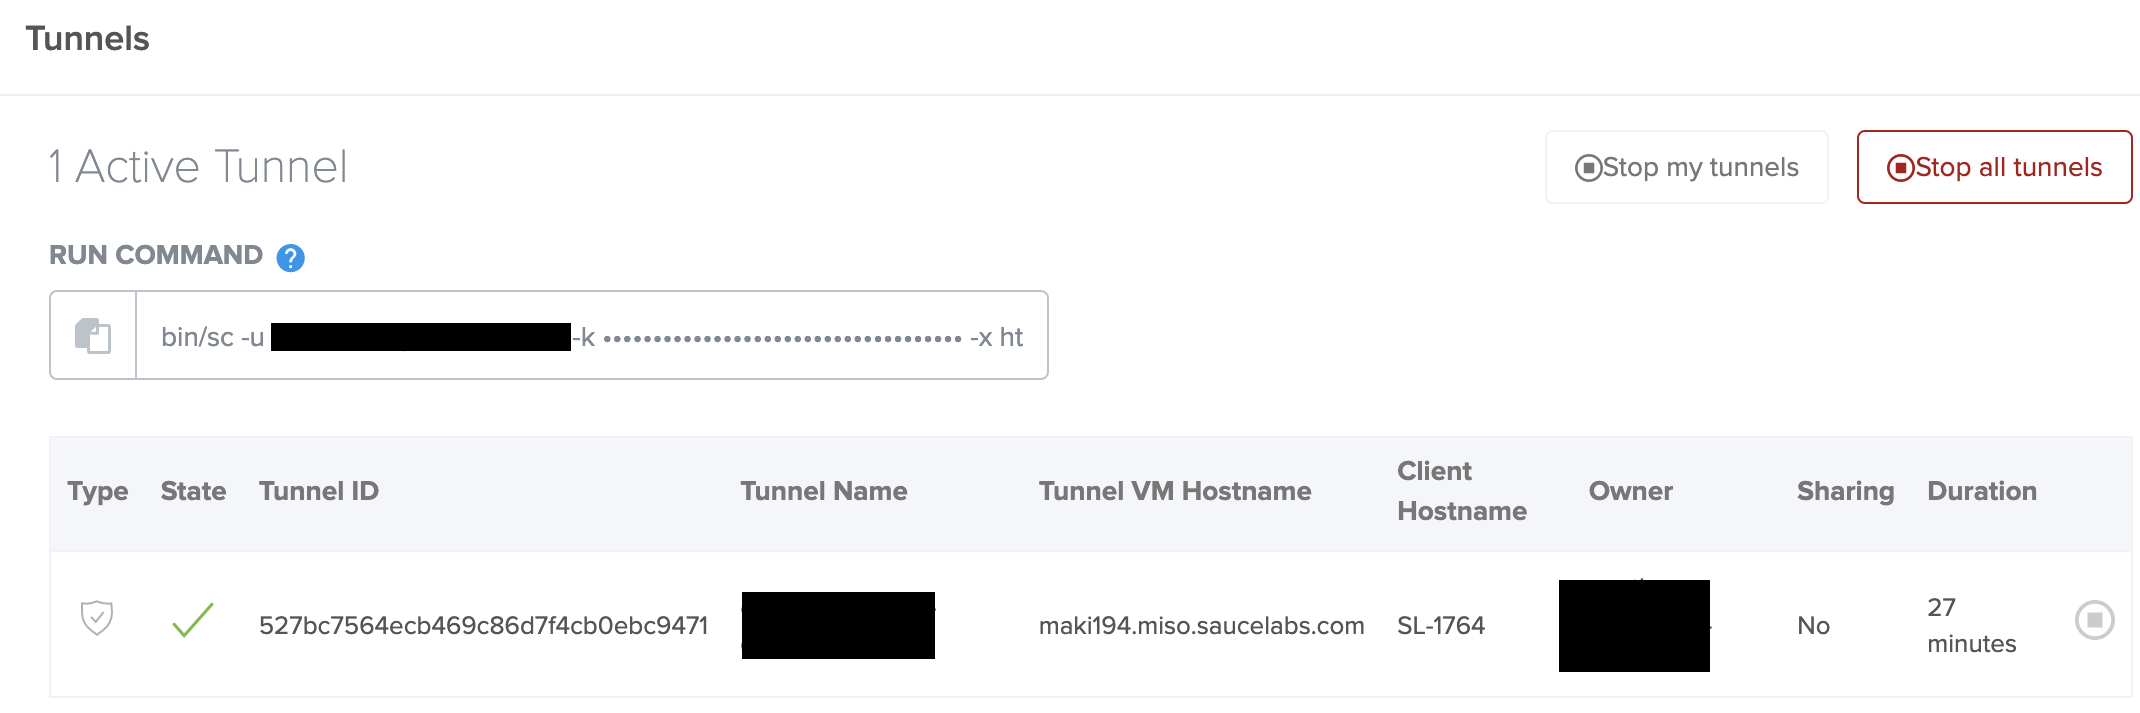
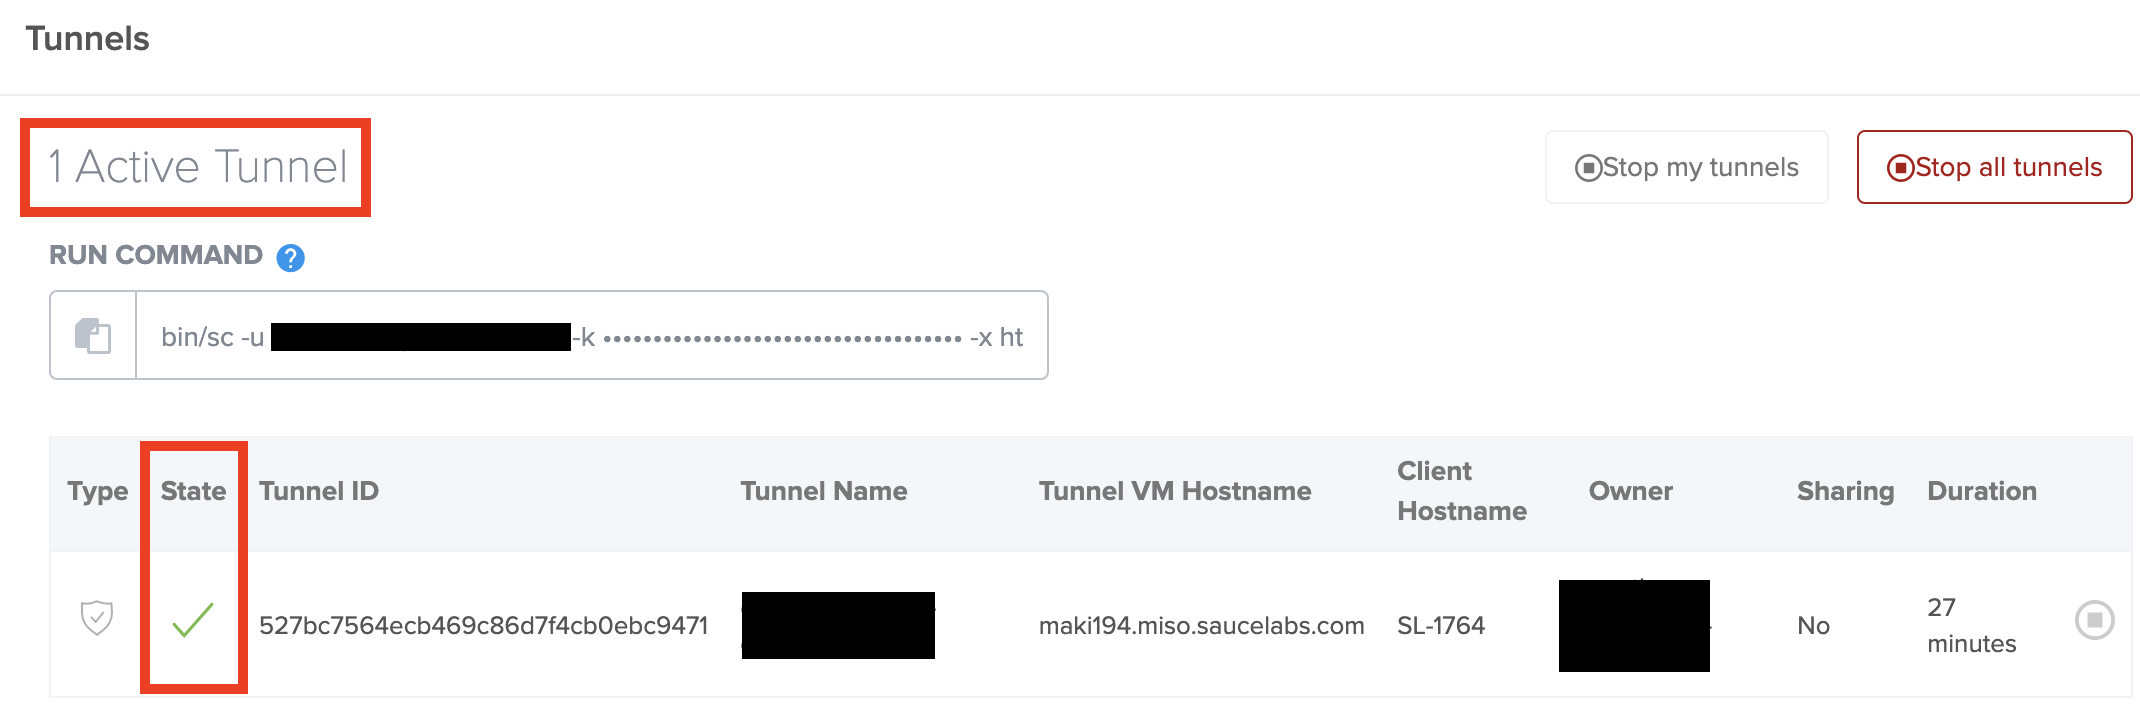
Added Verification and Stop instructions

Changed region(s): [[0.0617, 0.6171, 0.1234, 0.9874], [0.0, 0.1543, 0.185, 0.3086]]

diff --git a/docs/secure-connections/sauce-connect/quickstart.md b/docs/secure-connections/sauce-connect/quickstart.md
@@ -1,36 +1,41 @@
 ---
 id: quickstart
-title: Sauce Connect Proxy Quickstart
+title: Sauce Connect Proxy Quickstart Guide
 sidebar_label: Quickstart
-hide_table_of_contents: true
 ---
 import useBaseUrl from '@docusaurus/useBaseUrl';
 
-Get up and running in a few minutes by following the quickstart instructions below.
+Get up and running with a Sauce Connect Proxy tunnel in just a few minutes by following the instructions below.
 
-1. Download the latest version of the Sauce Connect Proxy client [here](/secure-connections/sauce-connect/installation).
-2. For Windows and Mac, extract the .zip contents to your local machine > open your local terminal > navigate to the folder where you downloaded Sauce Connect.
+## Starting a Tunnel
 
-  ```bash
-  johnsmith@SL-1764 ~ % cd sc-4.7.1-osx
-  ```
-
-  For Linux, copy, paste, and run [this snippet](/secure-connections/sauce-connect/installation/#linux) in your local terminal.
+1. Download the Sauce Connect Proxy client [here](/secure-connections/sauce-connect/installation).
+2. For Windows and Mac, extract the .zip download contents to your local machine, open your local terminal, and navigate to the folder where you downloaded Sauce Connect (i.e., `cd sc-4.7.1-osx` or `cd sc-4.7.1-win32`). For Linux, copy [this snippet](/secure-connections/sauce-connect/installation/#linux), then paste and run it in your local terminal.
 3. Log in to Sauce Labs.
-4. Go to the **TUNNELS** page.
-5. Scroll to the bottom of the page until you see **STEP 3: Configure & Authenticate**.
-6. Copy the code snippet listed there, paste it into your local terminal, and run it.
-7. Your tunnel should now be up and running. To verify, there are two places you can check:
-   * via [**TUNNELS**](https://app.saucelabs.com/tunnels) page
+4. Go to the [**TUNNELS**](https://app.saucelabs.com/tunnels) page, scroll to **STEP 3: Configure & Authenticate**, and copy the code snippet listed there.
+5. Paste the snippet into your local terminal and then run it. This authenticates you, connects you to a Sauce Labs Data Center, assigns an ID for your tunnel, and starts your tunnel.
 
-     <img src={useBaseUrl('img/sauce-connect/sauceconnect-tunnelsuccess-UI.png')} alt="Sauce Connect Tunnel Success" width="650"/>
+That's it! Now that your tunnel is up, try running a test.
 
-   * via CLI
 
-     <img src={useBaseUrl('img/sauce-connect/sauceconnect-tunnelsuccess-CLI.png')} alt="Sauce Connect Tunnel Success CLI" width="650"/>
+## Verifying a Tunnel
 
+To verify that your tunnel is up and running, there are two places you can check:
+
+#### Tunnel Page
+<img src={useBaseUrl('img/sauce-connect/sauceconnect-tunnelsuccess-ui.png')} alt="Sauce Connect Tunnel Success" width="800"/>
+
+#### CLI/Terminal
+<img src={useBaseUrl('img/sauce-connect/sauceconnect-tunnelsuccess-cli.png')} alt="Sauce Connect Tunnel Success CLI" width="700"/>
+
+
+## Stopping a Tunnel
+
+To stop a tunnel, go to the [**TUNNELS**](https://app.saucelabs.com/tunnels) page and click the **Stop** icon next to your tunnel.
+
+<img src={useBaseUrl('img/sauce-connect/sauceconnect-tunnelstop-ui.png')} alt="Sauce Connect Tunnel Success CLI" width="800"/>
 
 
 ## More Information
 
-* [Sauce School: interactive Sauce Connect course](https://training.saucelabs.com/sauceconnect/)
+* [Sauce School: Sauce Connect Proxy course](https://training.saucelabs.com/sauceconnect/) - an interactive course with video walkthroughs and practice activities.
